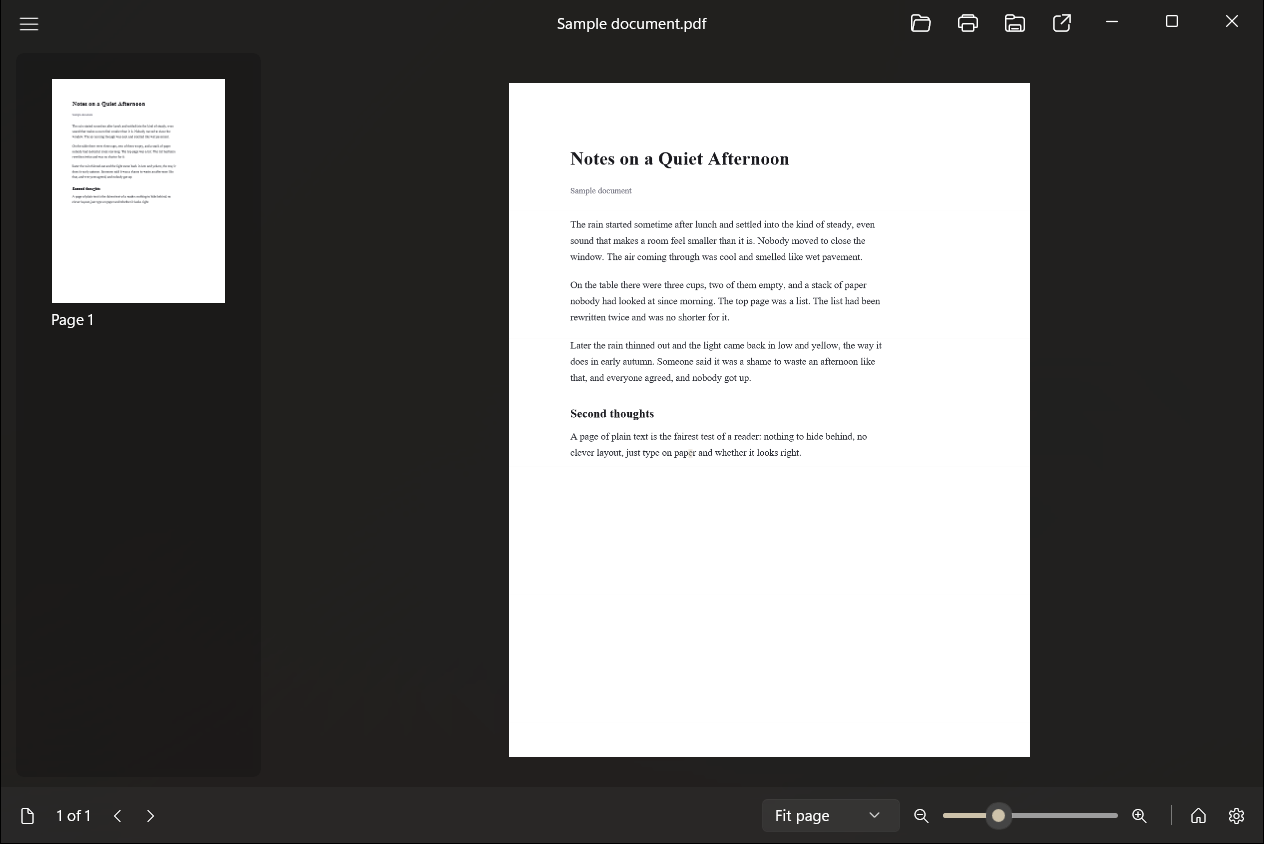
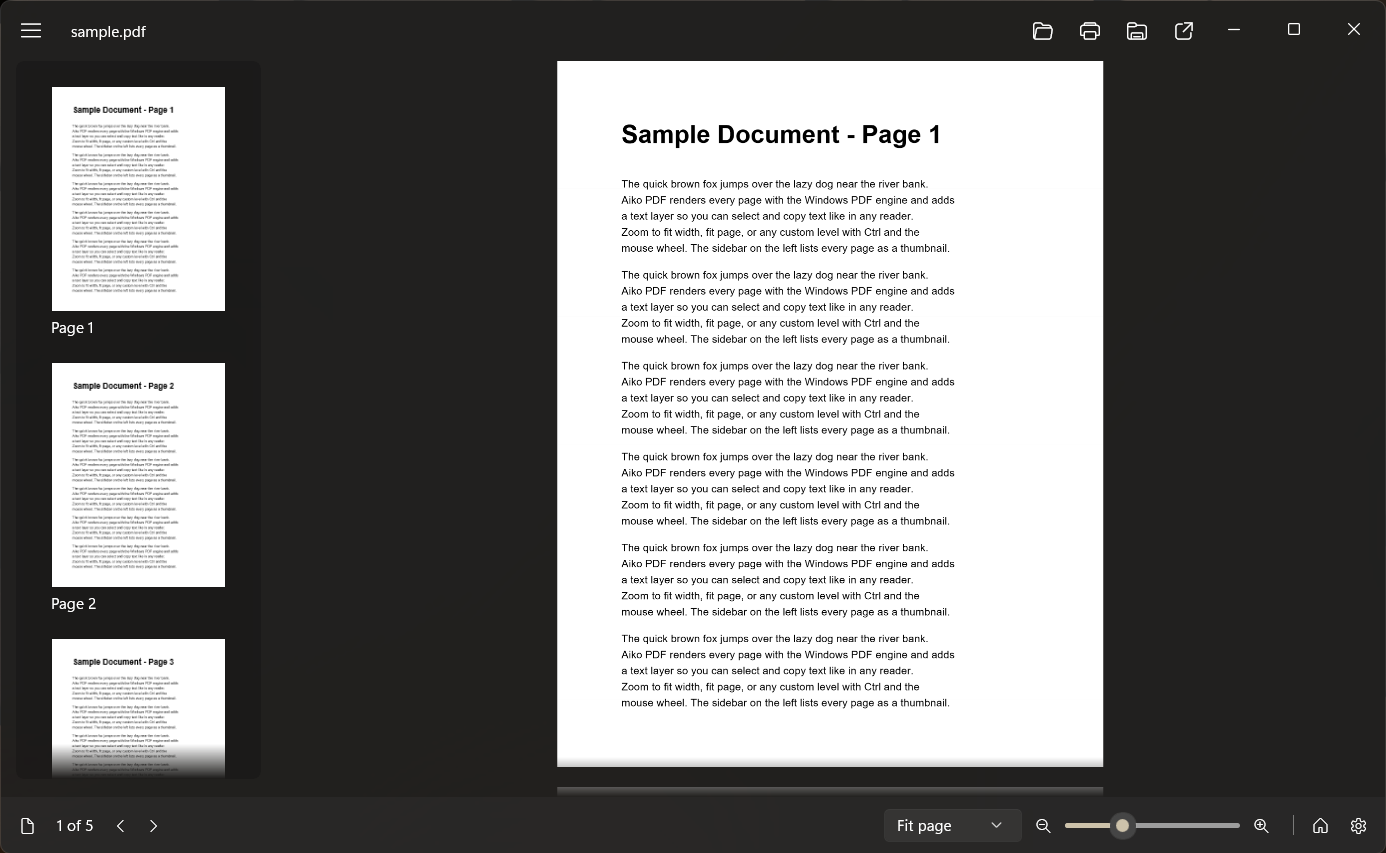
Prepare Aiko PDF for the Microsoft Store and refresh the screenshots
- The package takes the identity Partner Center reserved: artistro08.AikoPDF, published by artistro08, shown
  as "Aiko PDF", for Windows 10 version 2004 and later.
- build-release.ps1 -Store builds the unsigned package Partner Center signs; the GitHub build reads its signing
  subject from the manifest.
- New viewer and home page screenshots in the README.

diff --git a/tests/AikoPdf.Tests/DefaultAppRegistrationTests.cs b/tests/AikoPdf.Tests/DefaultAppRegistrationTests.cs
@@ -74,8 +74,8 @@ public sealed class DefaultAppRegistrationTests : IDisposable
     {
         // The "!" is escaped: Settings ignores the app and shows the whole list when it is not.
         Assert.Equal(
-            "ms-settings:defaultapps?registeredAUMID=Artistro08.Aiko_abc123%21Aiko",
-            DefaultAppRegistration.SettingsUriFor("Artistro08.Aiko_abc123!Aiko").OriginalString);
+            "ms-settings:defaultapps?registeredAUMID=artistro08.AikoPDF_80wzptmyxepxj%21Aiko",
+            DefaultAppRegistration.SettingsUriFor("artistro08.AikoPDF_80wzptmyxepxj!Aiko").OriginalString);
     }
 
     [Fact]

diff --git a/README.md b/README.md
@@ -12,6 +12,8 @@
 
 ![Aiko with a document open](docs/screenshot.png)
 
+![Aiko's home page](docs/screenshot-2.png)
+
 I built this because I wanted a simple PDF viewer that looked good. There is a
 [sample document](docs/sample.pdf) in this repo if you want something to open.
 
